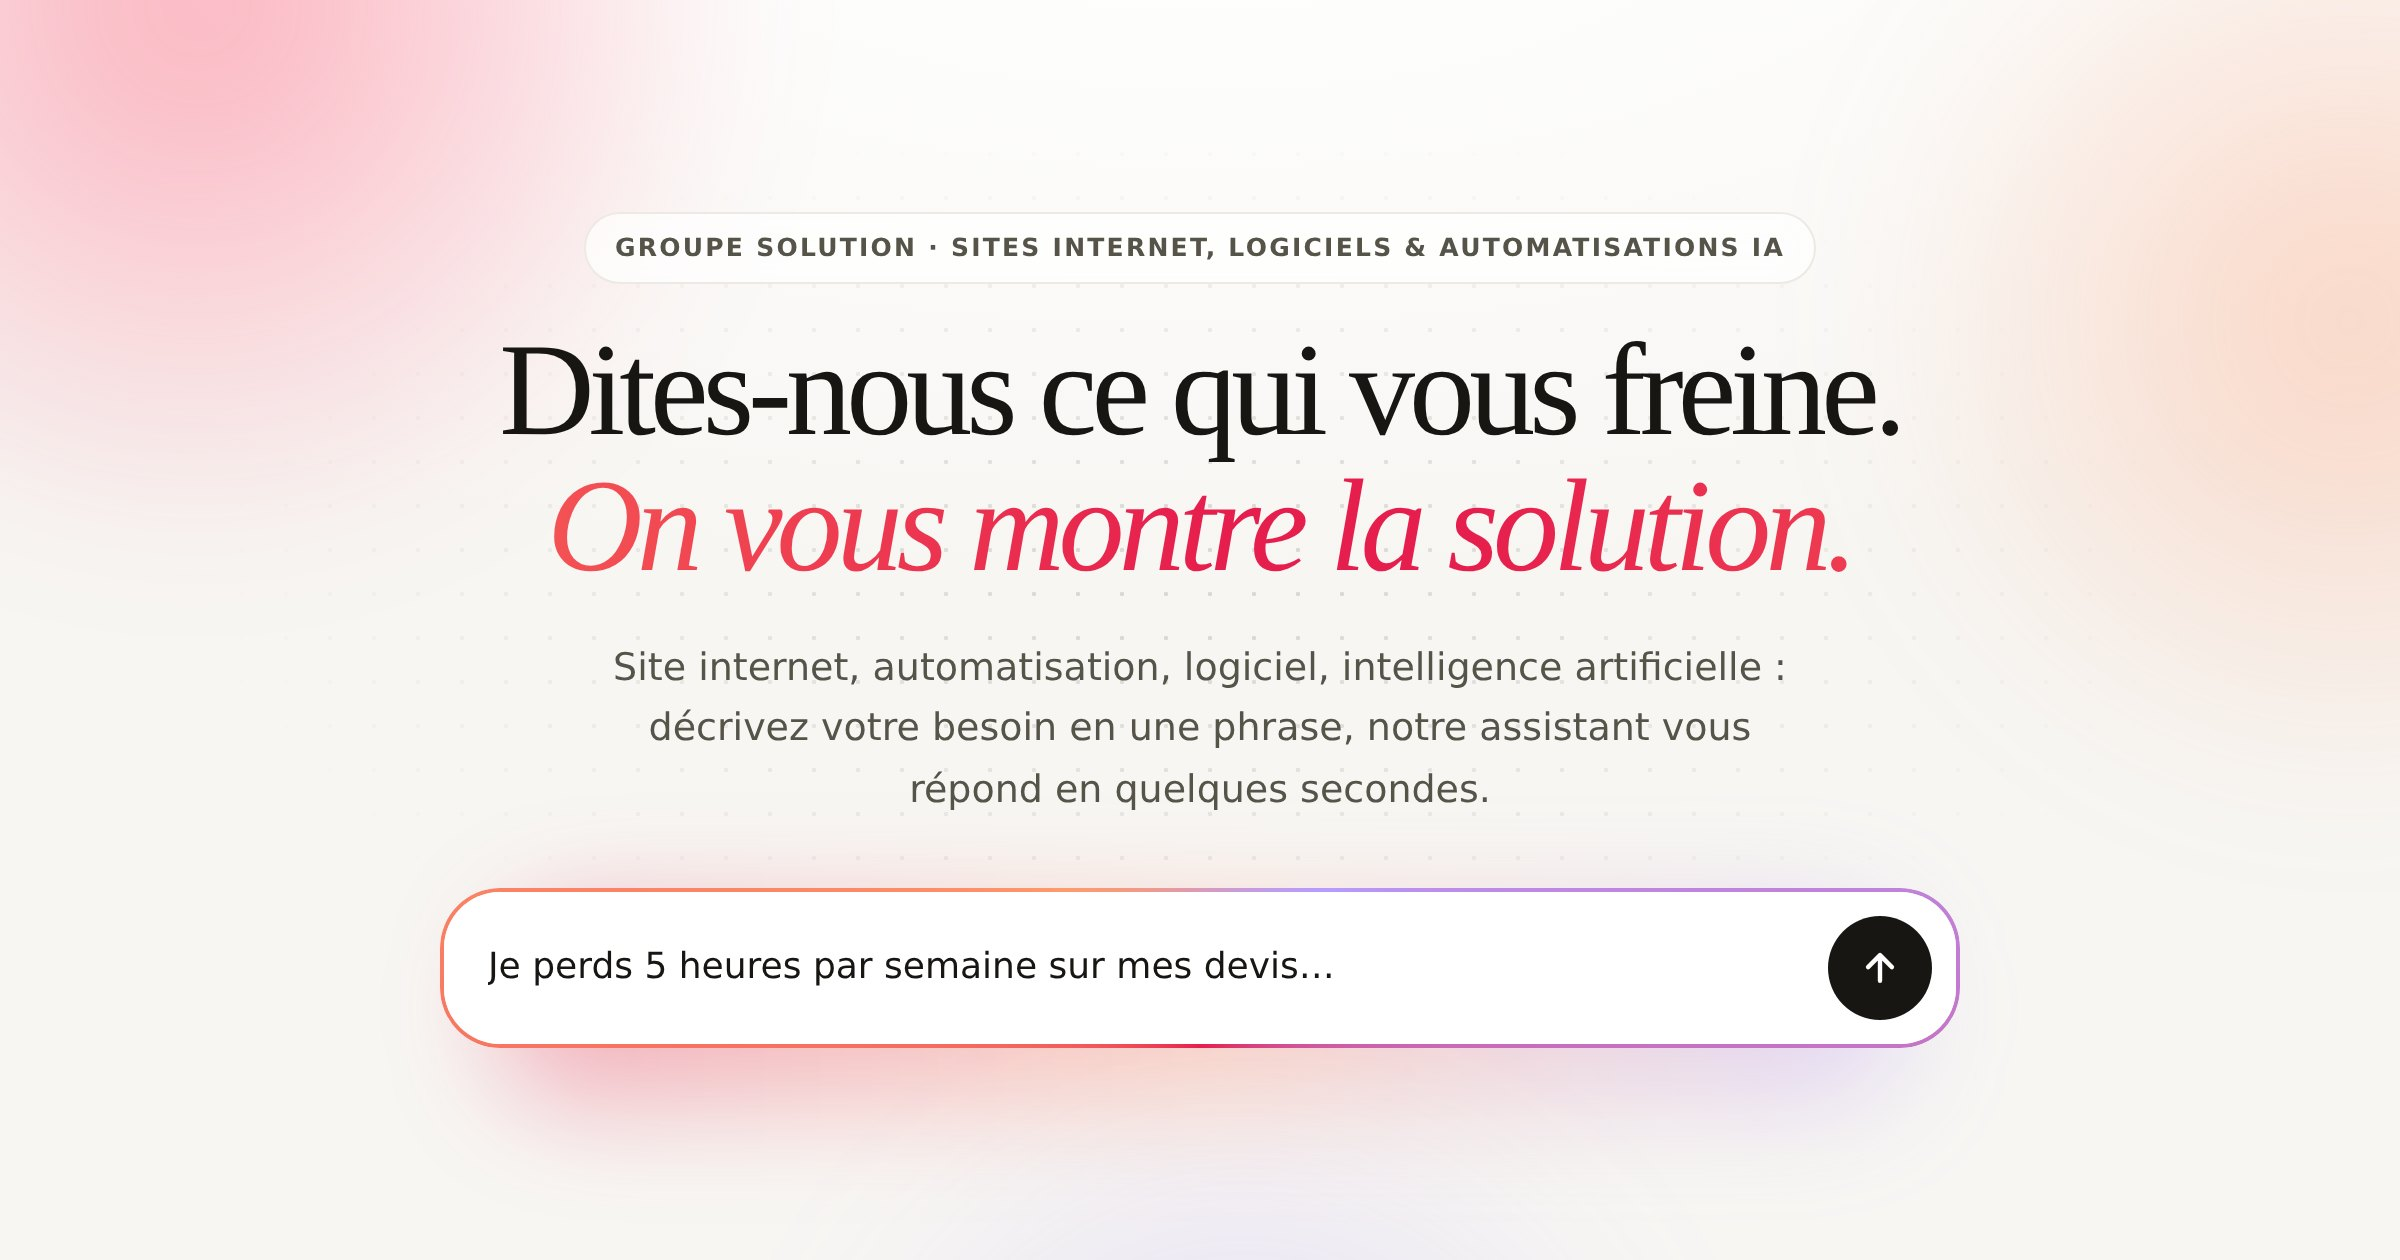
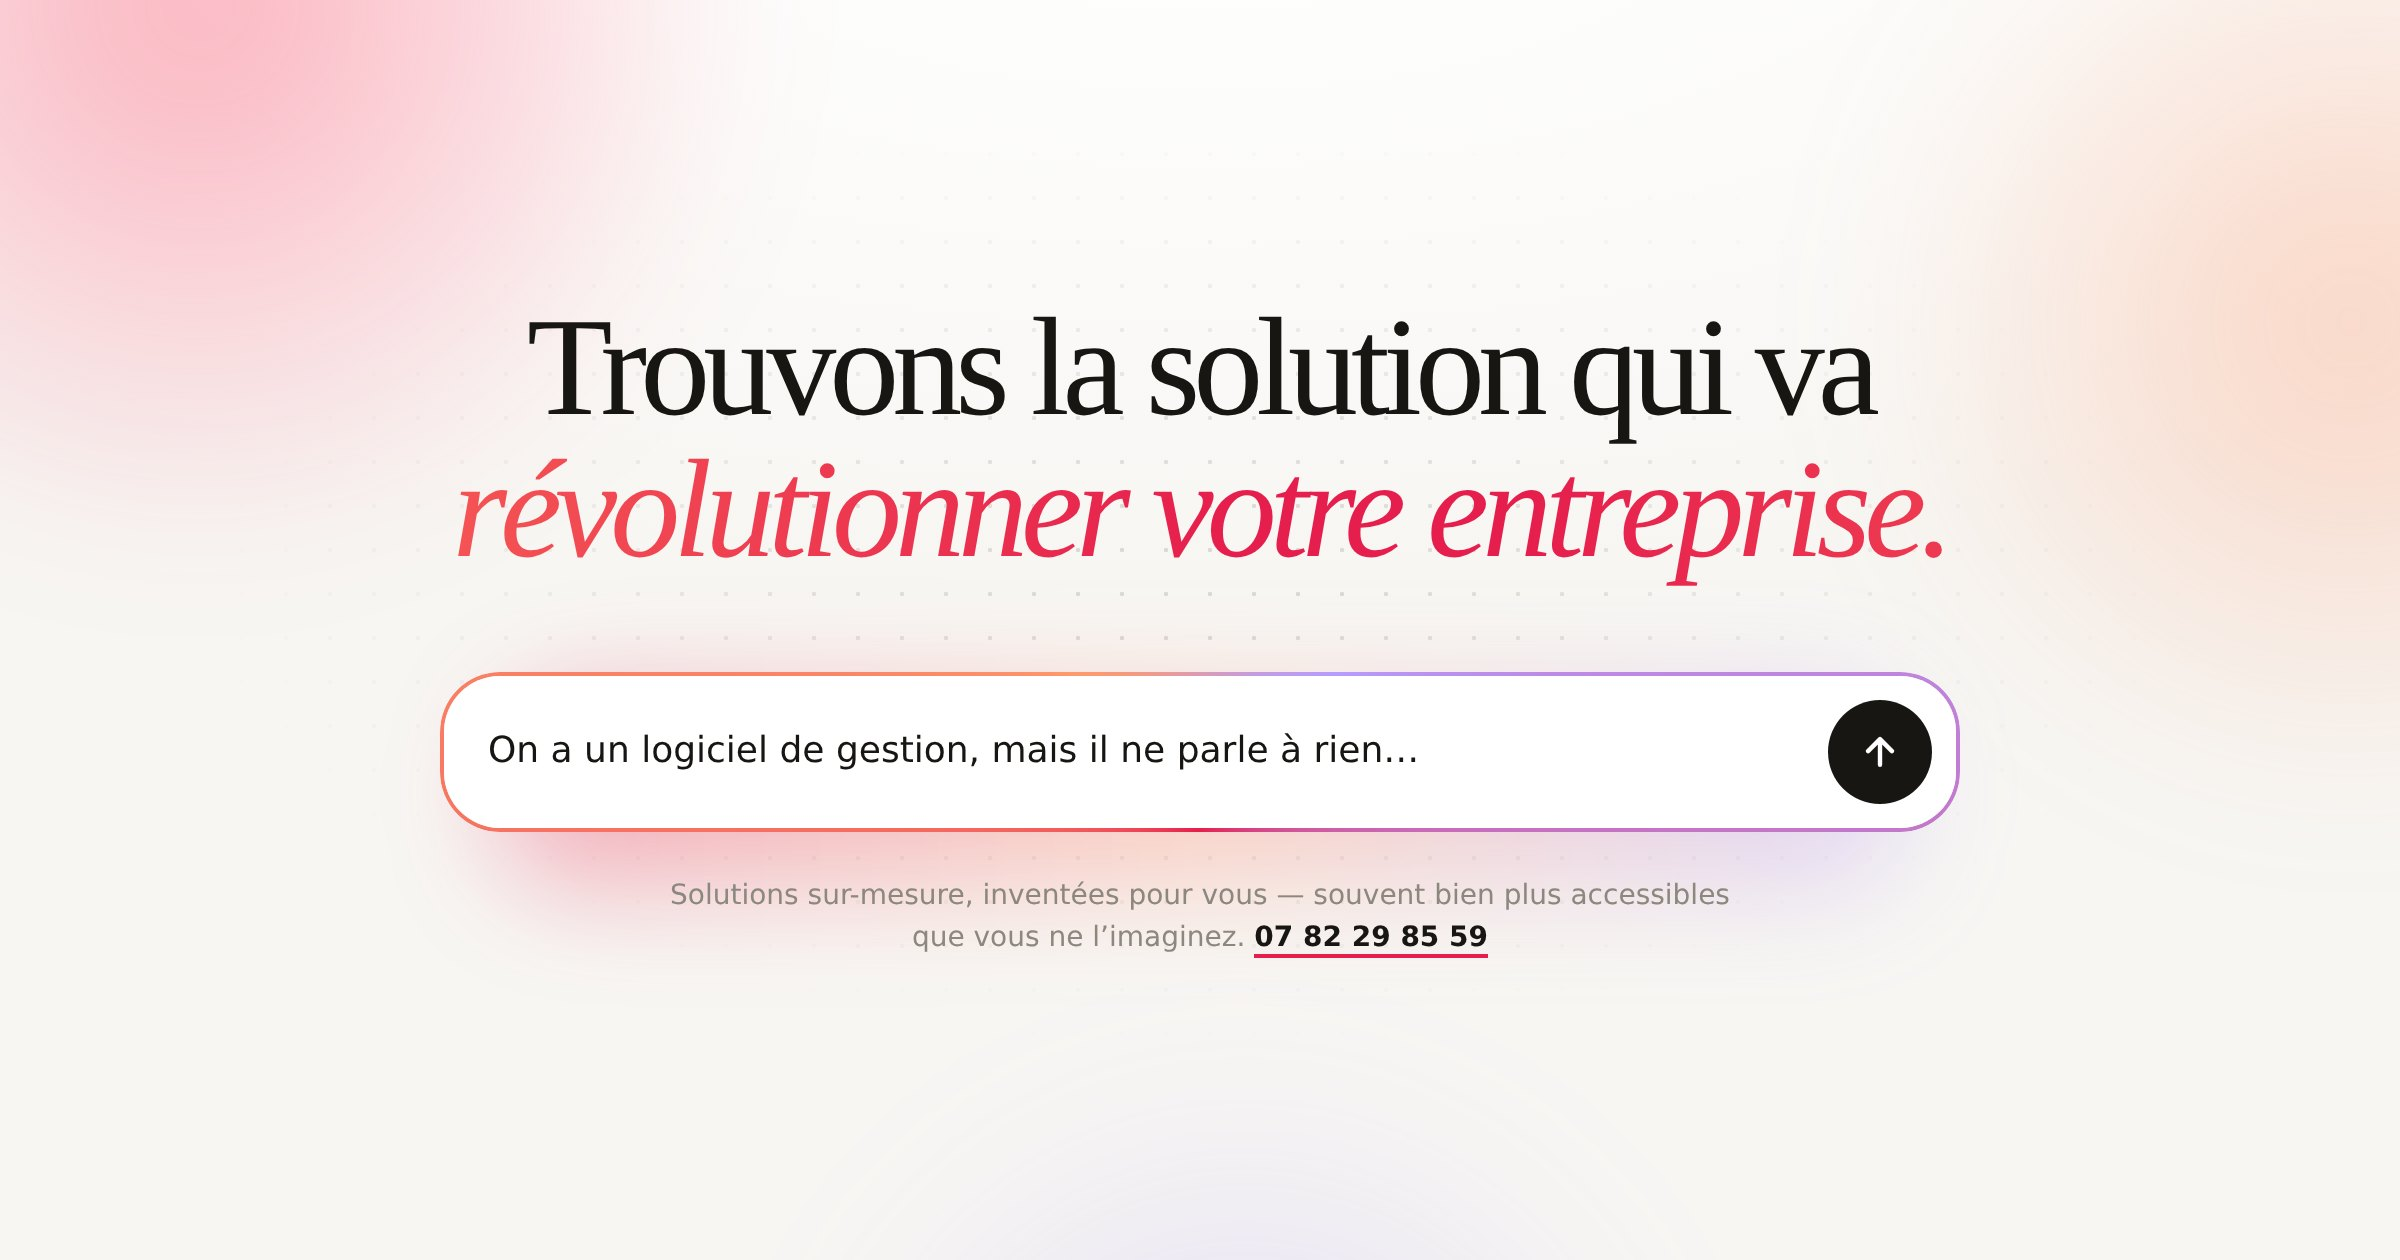
Accueil épuré : un titre, une barre — « Trouvons la solution qui va révolutionner votre entreprise. »
- Suppression des éléments secondaires (bandeau, sous-titre, suggestions, badges) ; une seule ligne
  discrète sous la barre : sur-mesure, accessible, téléphone
- Exemples de saisie reformulés autour de l'entreprise du visiteur
- Interface générative : les pages citées par l'IA s'affichent en cartes d'action sous sa réponse
- Assistant : message « solutions inventées sur-mesure, souvent plus accessibles qu'on ne l'imagine »
  (sans prix), liens utiles en fin de réponse
- Personnalisation IA retirée de l'accueil (le titre reste celui-ci) ; image et titre de partage mis à jour

Claude-Session: https://claude.ai/code/session_011s2q28tvbPjVnYuFPxBmK1

Changed region(s): [[0.1875, 0.5262, 0.8125, 0.8976], [0.1875, 0.2476, 0.8125, 0.4643], [0.25, 0.1857, 0.75, 0.2167]]

diff --git a/index.html b/index.html
@@ -11,8 +11,8 @@
   <meta property="og:type" content="website" />
   <meta property="og:locale" content="fr_FR" />
   <meta property="og:site_name" content="Groupe Solution" />
-  <meta property="og:title" content="Dites-nous ce qui vous freine. On vous montre la solution. — Groupe Solution" />
-  <meta property="og:description" content="Site internet, automatisation, logiciel, IA : décrivez votre besoin en une phrase, notre assistant vous répond en quelques secondes. Essayez-le." />
+  <meta property="og:title" content="Trouvons la solution qui va révolutionner votre entreprise — Groupe Solution" />
+  <meta property="og:description" content="Parlez-nous de votre entreprise : notre IA imagine avec vous la solution sur-mesure — site, automatisation, logiciel, IA. Essayez-la." />
   <meta property="og:url" content="https://www.groupsolution.fr/" />
   <meta property="og:image" content="https://www.groupsolution.fr/assets/og-accueil.jpg" />
   <meta name="twitter:card" content="summary_large_image" />
@@ -150,11 +150,16 @@
   @keyframes gsaFloat{to{transform:translate3d(7vmax,5vmax,0) scale(1.15)}}
   .aiWrap{width:100%;max-width:880px;display:flex;flex-direction:column;align-items:center;text-align:center}
   .aiKicker{font-size:12.5px;font-weight:800;letter-spacing:.09em;text-transform:uppercase;color:var(--secondary);background:rgba(255,255,255,.7);border:1px solid var(--line);padding:7px 14px;border-radius:999px;backdrop-filter:blur(8px);-webkit-backdrop-filter:blur(8px)}
-  .aiTitle{font-size:clamp(40px,4.9vw,70px);line-height:1.04;letter-spacing:-.045em;margin:20px 0 0;max-width:1000px}
+  .aiTitle{font-size:clamp(42px,5.2vw,78px);line-height:1.02;letter-spacing:-.05em;margin:0;max-width:1100px}
+  .aiFoot{margin-top:22px;font-size:14px;color:var(--muted);max-width:560px;line-height:1.55}.aiFoot a{color:var(--ink);font-weight:800;border-bottom:2px solid var(--acc);white-space:nowrap}
+  .hero-ai.chatting .aiFoot{display:none}
+  .aiRefs{display:flex;flex-wrap:wrap;gap:8px;margin-top:-4px;align-self:flex-start;max-width:88%;animation:gsaIn .35s var(--ease) both}
+  .aiRefs a{display:inline-flex;align-items:center;gap:6px;background:rgba(255,255,255,.85);border:1px solid var(--line2);border-radius:14px;padding:9px 13px;font-size:13.5px;font-weight:700;color:var(--ink);transition:border-color .16s,color .16s}
+  .aiRefs a::after{content:'→';color:var(--acc)}.aiRefs a:hover{border-color:var(--acc);color:var(--acc)}
   .aiTitle em{font-style:italic;background:linear-gradient(90deg,#E61E4D,#FF7A59 45%,#E61E4D 90%);background-size:200% 100%;-webkit-background-clip:text;background-clip:text;color:transparent;animation:gsaShine 7s linear infinite}
   @keyframes gsaShine{to{background-position:-200% 0}}
   .aiSub{font-size:clamp(16px,1.6vw,19px);color:var(--secondary);line-height:1.6;margin:20px auto 0;max-width:600px}
-  .aiBoxWrap{position:relative;width:100%;max-width:760px;margin-top:34px;border-radius:30px;padding:2px;background:linear-gradient(var(--line),var(--line))}
+  .aiBoxWrap{position:relative;width:100%;max-width:760px;margin-top:44px;border-radius:30px;padding:2px;background:linear-gradient(var(--line),var(--line))}
   .aiBoxWrap::before{content:"";position:absolute;inset:0;border-radius:30px;padding:2px;background:conic-gradient(from var(--gsa),#E61E4D,#FF9A6B,#B69CFF,#E61E4D);-webkit-mask:linear-gradient(#000 0 0) content-box,linear-gradient(#000 0 0);-webkit-mask-composite:xor;mask-composite:exclude;animation:gsaSpin 5s linear infinite}
   .aiBoxWrap::after{content:"";position:absolute;inset:14px 30px -26px;border-radius:40px;background:linear-gradient(90deg,rgba(230,30,77,.35),rgba(255,122,89,.3),rgba(170,140,255,.3));filter:blur(28px);z-index:-1}
   @keyframes gsaSpin{to{--gsa:360deg}}
@@ -196,7 +201,8 @@
   /* Téléphone */
   @media(max-width:760px){
     .hero-ai{min-height:calc(100svh - 64px);padding:28px 0 36px}
-    .aiTitle{font-size:clamp(34px,10vw,46px);max-width:12ch;margin-top:16px}
+    .aiTitle{font-size:clamp(34px,9.6vw,44px);max-width:12ch}
+    .aiFoot{font-size:13px}
     .aiKicker,.aiHint{display:none}
     .aiSub{font-size:15.5px}
     .aiBoxWrap{margin-top:26px;border-radius:24px}.aiBoxWrap::before{border-radius:24px}
@@ -211,7 +217,7 @@
     .hero-ai.chatting .aiTop{display:flex;align-items:center;justify-content:space-between;padding:12px 16px;padding-top:max(12px,env(safe-area-inset-top));border-bottom:1px solid var(--line);background:rgba(255,255,255,.85);backdrop-filter:blur(10px);-webkit-backdrop-filter:blur(10px)}
     .aiTop b{font-size:15px}.aiClose{width:40px;height:40px;border-radius:50%;border:0;background:var(--sand,#F4F2EC);font-size:22px;cursor:pointer}
     .hero-ai.chatting .aiWrap{flex:1;min-height:0;padding:0 12px;justify-content:flex-end}
-    .hero-ai.chatting .aiTitle,.hero-ai.chatting .aiCall{display:none}
+    .hero-ai.chatting .aiTitle{display:none}
     .hero-ai.chatting .aiLog{flex:1 1 0;max-height:none;min-height:0;padding:14px 2px}
     .hero-ai.chatting .aiBoxWrap{margin:0 0 max(10px,env(safe-area-inset-bottom))}
     .aiMsg{max-width:92%;font-size:15.5px}
@@ -431,28 +437,17 @@
     <div class="aiBg" aria-hidden="true"><span class="orb o1"></span><span class="orb o2"></span><span class="orb o3"></span><span class="aiDots"></span></div>
     <div class="aiTop" aria-hidden="false"><b>Assistant Groupe Solution</b><button type="button" class="aiClose" aria-label="Fermer la conversation">×</button></div>
     <div class="wrap aiWrap">
-      <p class="aiKicker">Groupe Solution · sites internet, logiciels &amp; automatisations IA</p>
-      <h1 class="aiTitle">Dites-nous ce qui vous freine.<br><em>On vous montre la solution.</em></h1>
-      <p class="aiSub">Site internet, automatisation, logiciel, intelligence artificielle : décrivez votre besoin en une phrase, notre assistant vous répond en quelques secondes.</p>
+      <h1 class="aiTitle">Trouvons la solution qui va <em>révolutionner votre entreprise.</em></h1>
       <div class="aiLog" id="aiLog" aria-live="polite"></div>
       <form class="aiBoxWrap" id="aiBox" autocomplete="off">
         <div class="aiBoxIn">
-          <textarea id="aiInput" rows="1" maxlength="600" aria-label="Décrivez votre besoin" placeholder="Décrivez votre besoin…"></textarea>
+          <textarea id="aiInput" rows="1" maxlength="600" aria-label="Parlez-nous de votre entreprise ou de votre projet" placeholder="Parlez-nous de votre entreprise…"></textarea>
           <button type="submit" class="aiSend" aria-label="Envoyer">
             <svg viewBox="0 0 24 24" width="22" height="22" aria-hidden="true"><path d="M12 19V5M5.5 11.5 12 5l6.5 6.5" fill="none" stroke="currentColor" stroke-width="2.4" stroke-linecap="round" stroke-linejoin="round"/></svg>
           </button>
         </div>
-        <p class="aiHint">✨ Gratuit · sans inscription · réponse en quelques secondes</p>
       </form>
-      <div class="aiChips" id="aiChips">
-        <button type="button">Je veux un site pour mon activité</button>
-        <button type="button">Je perds trop de temps sur mes devis</button>
-        <button type="button">Un agent IA qui répond au téléphone ?</button>
-        <button type="button">Mon logiciel ne communique avec rien</button>
-        <button type="button">Je ne sais pas par où commencer</button>
-      </div>
-      <p class="aiCall">Vous préférez parler à un humain ? <a href="tel:+33782298559">📞 07 82 29 85 59</a> · <a href="#contact">Réserver 10 min</a></p>
-      <p class="aiTrust"><span>Basé à Montpellier</span><span>3 plateformes en production</span><span>France entière &amp; DOM-TOM</span></p>
+      <p class="aiFoot">Solutions sur-mesure, inventées pour vous — souvent bien plus accessibles que vous ne l’imaginez. <a href="tel:+33782298559">07 82 29 85 59</a></p>
     </div>
   </section>
   <div class="aiDevise"><div class="wrap"><span class="lab">Notre devise</span><b>Nous gagnons de l’argent uniquement si vous en gagnez.</b></div></div>

diff --git a/assets/home-ai.js b/assets/home-ai.js
@@ -22,16 +22,16 @@
   input.addEventListener('keydown', function (e) { if (e.key === 'Enter' && !e.shiftKey && !e.isComposing) { e.preventDefault(); form.requestSubmit ? form.requestSubmit() : submit(); } });
 
   /* Exemples qui s'écrivent tout seuls dans la zone vide */
-  var EX = ['Je veux un site internet pour mon restaurant…', 'Je passe mes soirées à faire des devis…', 'Mon standard sonne dans le vide quand je suis sur un chantier…', 'Mes factures fournisseurs arrivent en PDF, je ressaisis tout…', 'J’ai un logiciel métier mais il ne parle à rien…', 'Je veux plus de clients qui me trouvent sur Google…'];
+  var EX = ['Je suis artisan, je passe mes soirées sur les devis…', 'On a un logiciel de gestion, mais il ne parle à rien…', 'Je lance mon entreprise, par où commencer ?', 'Notre standard sonne dans le vide pendant les chantiers…', 'Je veux que plus de clients me trouvent sur Google…', 'On ressaisit toutes nos factures fournisseurs à la main…'];
   var ti = 0, tc = 0, tdir = 1, ttm = null, typing = true;
   function tick() {
-    if (!typing || input.value || document.activeElement === input) { input.placeholder = 'Décrivez votre besoin…'; ttm = setTimeout(tick, 1200); return; }
+    if (!typing || input.value || document.activeElement === input) { input.placeholder = 'Parlez-nous de votre entreprise…'; ttm = setTimeout(tick, 1200); return; }
     var w = EX[ti]; tc += tdir; input.placeholder = w.slice(0, tc);
     if (tc >= w.length) { tdir = -1; ttm = setTimeout(tick, 1800); return; }
     if (tc <= 0) { tdir = 1; ti = (ti + 1) % EX.length; }
     ttm = setTimeout(tick, tdir > 0 ? 42 : 18);
   }
-  function stopType() { typing = false; input.placeholder = 'Décrivez votre besoin…'; }
+  function stopType() { typing = false; input.placeholder = 'Parlez-nous de votre entreprise…'; }
   if (!matchMedia('(prefers-reduced-motion: reduce)').matches) ttm = setTimeout(tick, 900);
 
   /* Messages */
@@ -94,6 +94,9 @@
     }).then(function (r) {
       wait.remove();
       add('b', md(r.answer));
+      // Interface générative : les pages citées par l'IA deviennent des cartes d'action sous sa réponse.
+      var seen = {}, refs = []; (r.answer.match(/\[[^\]]{2,70}\]\((\/[^)\s]*)\)/g) || []).forEach(function (m) { var x = m.match(/\[([^\]]+)\]\(([^)]+)\)/); if (x && !seen[x[2]] && refs.length < 3) { seen[x[2]] = 1; refs.push(x); } });
+      if (refs.length) { var rf = document.createElement('div'); rf.className = 'aiRefs'; refs.forEach(function (x) { var a = document.createElement('a'); a.href = x[2]; a.textContent = x[1]; a.addEventListener('click', function () { ga('home_ai_ref', { url: x[2] }); }); rf.appendChild(a); }); log.appendChild(rf); log.scrollTop = log.scrollHeight; }
       hist.push({ role: 'user', content: q }, { role: 'assistant', content: r.answer }); hist = hist.slice(-16);
       var userTurns = hist.filter(function (m) { return m.role === 'user'; }).length;
       if (userTurns >= 2 || /appel|rappel|devis|10 minutes|07 82/i.test(r.answer)) cta();
@@ -107,5 +110,5 @@
 
   function submit(e) { if (e) e.preventDefault(); ask(input.value); }
   form.addEventListener('submit', submit);
-  [].forEach.call(chips.querySelectorAll('button'), function (b) { b.addEventListener('click', function () { ga('home_ai_chip'); ask(b.textContent); }); });
+  if (chips) [].forEach.call(chips.querySelectorAll('button'), function (b) { b.addEventListener('click', function () { ga('home_ai_chip'); ask(b.textContent); }); });
 })();

diff --git a/assets/perso.js b/assets/perso.js
@@ -197,7 +197,7 @@
   function aiState() { return get(LS, AI_KEY) || get(SS, AI_KEY); }
   function setAI(v) { set(LS, AI_KEY, v); set(SS, AI_KEY, v); ga(v === 'granted' ? 'perso_ai_on' : 'perso_ai_off'); }
   api.setAI = setAI;
-  var AI_PAGES = /^\/(index\.html)?$|^\/services\/$|^\/automatisation\/$|^\/montpellier\/site-internet-montpellier\.html$|^\/lab\/$|^\/solutions\.html$|^\/realisations\.html$/;
+  var AI_PAGES = /^\/services\/$|^\/automatisation\/$|^\/montpellier\/site-internet-montpellier\.html$|^\/lab\/$|^\/solutions\.html$|^\/realisations\.html$/;
   var EXTRA = [['/services/', 'Tous nos services'], ['/services/logiciel-sur-mesure.html', 'Logiciel sur-mesure'], ['/services/integration-api-connecteurs.html', 'Connecter vos outils (API)'], ['/services/agence-ia-entreprise.html', 'Intégrer l’IA dans votre entreprise'], ['/lab/dossiers/', 'Le dossier de la semaine'], ['/lab/questions/', 'Les questions des dirigeants']];
   function candidates() {
     var seen = {}, out = [];
